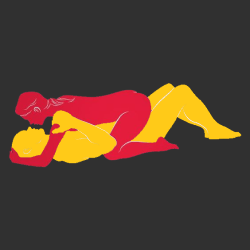
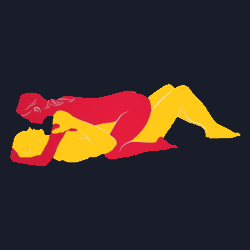
design changes

diff --git a/Games/tod/index.html b/Games/tod/index.html
@@ -39,15 +39,68 @@
        
     }
     .card{
-  background-color:#303030;
-  border: solid black;
+
   border-radius: 10px;
   text-align:center;
   padding:20px;
   margin: 0 35% 0 35%;
   box-shadow:0 20px 30px rgba(0,0,0,0.2);
   display: none;
+  background: #191c29;
+
+  position: relative;
+  border-radius: 6px;
+
+
+  color: rgb(88 199 250 / 0%);
+
 }
+
+
+
+.card::before {
+  content: "";
+  width: 104%;
+  height: 102%;
+  border-radius: 8px;
+  background-image: linear-gradient(
+    var(--rotate)
+    , #5ddcff, #3c67e3 43%, #4e00c2);
+    position: absolute;
+    z-index: -1;
+    top: -1%;
+    left: -2%;
+    animation: spin 2.5s linear infinite;
+}
+
+.card::after {
+  content: "";
+  top: calc(var(--card-height) / 6);
+  left: 0;
+  right: 0;
+  z-index: -1;
+  height: 100%;
+  width: 100%;
+  margin: 0 auto;
+  transform: scale(0.8);
+  filter: blur(calc(var(--card-height) / 6));
+  background-image: linear-gradient(
+    var(--rotate)
+    , #5ddcff, #3c67e3 43%, #4e00c2);
+    opacity: 1;
+  transition: opacity .5s;
+  animation: spin 2.5s linear infinite;
+}
+
+@keyframes spin {
+  0% {
+    --rotate: 0deg;
+  }
+  100% {
+    --rotate: 360deg;
+  }
+}
+
 .imagescup {
     display: flex;
     flex-direction: row;
